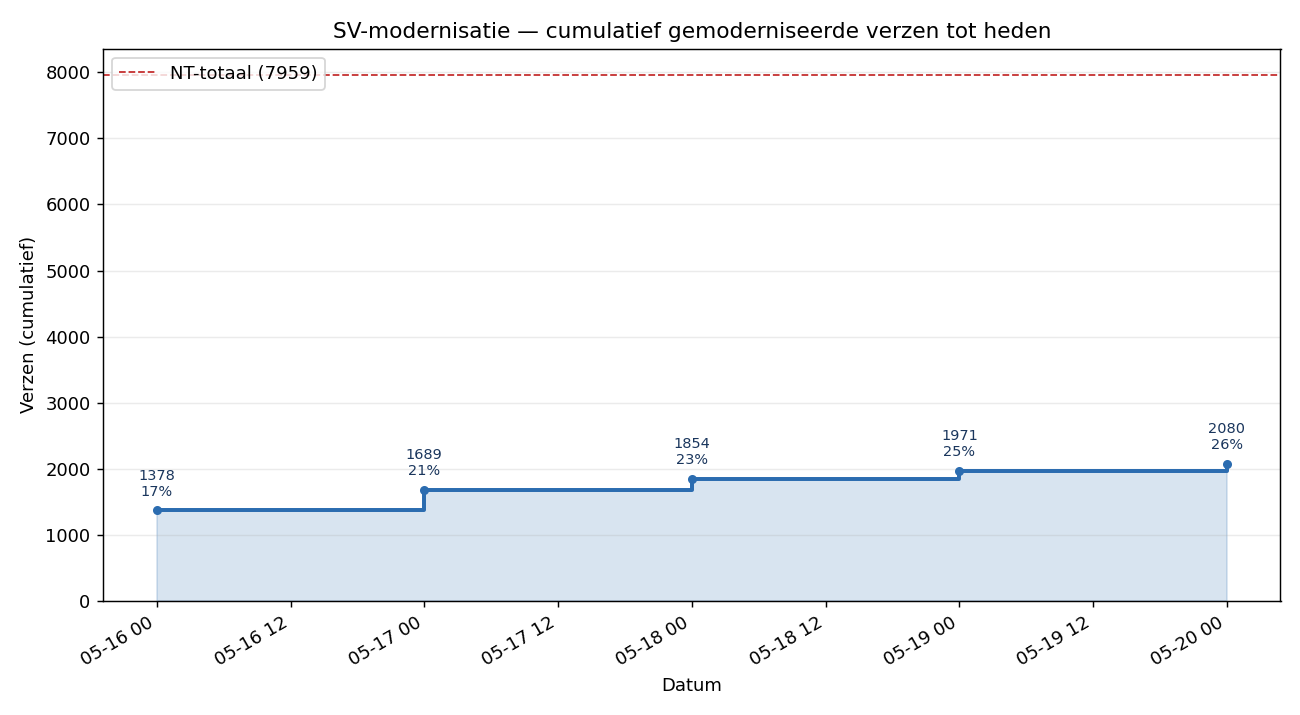
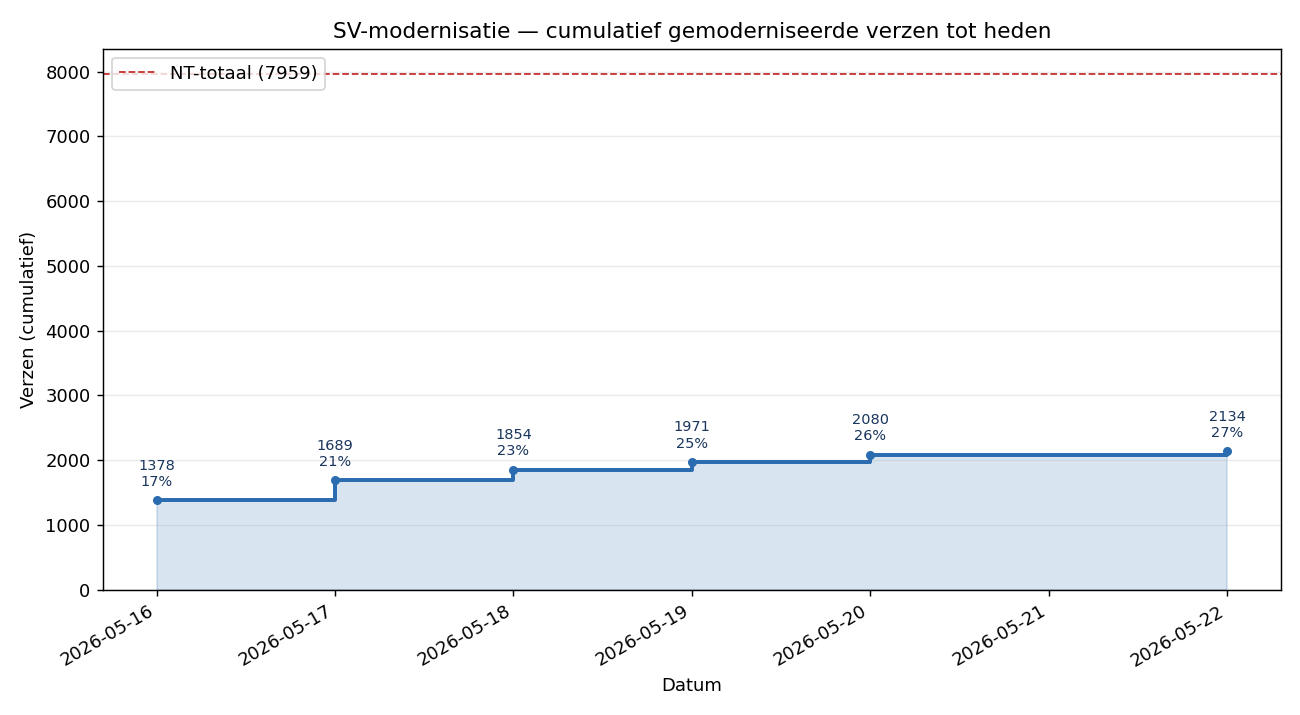
docs: voortgangsoverzicht bijgewerkt t/m ROM 10 (2134 verzen, 26,8%)

diff --git a/docs/projectoverzicht.md b/docs/projectoverzicht.md
@@ -1,6 +1,6 @@
 # Projectoverzicht — SVmodernisatie2026
 
-*Van initiatie tot heden. Bijgewerkt: 20 mei 2026.*
+*Van initiatie tot heden. Bijgewerkt: 22 mei 2026.*
 
 Modernisering van de Statenvertaling 1657 (2e druk) met maximaal behoud
 van de SV-eigenheid, volledig uitgevoerd door taalmodellen volgens de
@@ -12,12 +12,12 @@ methode in [`MODERNISATIE.md`](../MODERNISATIE.md).
 
 | | Verzen |
 |---|---:|
-| **Gemoderniseerd** | **2.080** |
+| **Gemoderniseerd** | **2.134** |
 | **Totaal NT (SV1657-corpus, `input.sv/`)** | **7.959** |
-| **Voortgang** | **26,1 %** |
+| **Voortgang** | **26,8 %** |
 
 ```
-[██████████░░░░░░░░░░░░░░░░░░░░░░░░░░░░░░] 26,1 %
+[███████████░░░░░░░░░░░░░░░░░░░░░░░░░░░░░] 26,8 %
 ```
 
 ### Per boek
@@ -27,8 +27,8 @@ methode in [`MODERNISATIE.md`](../MODERNISATIE.md).
 | Markus (MRK)   | 16 / 16 | 678   | 678   | ✅ compleet |
 | Lukas (LUK)    | 24 / 24 | 1.151 | 1.151 | ✅ compleet |
 | Filemon (PHM)  | 1 / 1   | 25    | 25    | ✅ compleet |
-| Romeinen (ROM) | 8 / 16  | 226   | 434   | 🔧 in uitvoering |
-| **Subtotaal**  |         | **2.080** | **2.288** | |
+| Romeinen (ROM) | 10 / 16 | 280   | 434   | 🔧 in uitvoering |
+| **Subtotaal**  |         | **2.134** | **2.288** | |
 
 Resterende NT-boeken (nog niet gestart): MAT, JHN, ACT, 1CO, 2CO, GAL,
 EPH, PHP, COL, 1TH, 2TH, 1TI, 2TI, TIT, HEB, JAS, 1PE, 2PE, 1JN, 2JN,
@@ -45,8 +45,9 @@ EPH, PHP, COL, 1TH, 2TH, 1TI, 2TI, TIT, HEB, JAS, 1PE, 2PE, 1JN, 2JN,
 | **18 mei 2026** | Lukas afgerond (24 hoofdstukken). Filemon gestart. Meta-review-aggregator (cross-chapter HSV-diff bucketing) toegevoegd. |
 | **19 mei 2026** | Romeinen gestart (`ROM 1:1-3`). |
 | **20 mei 2026** | Romeinen t/m hoofdstuk 8. Eerbiedskapitaal- en genitief-archaïsme-checks HARD in validator. SV27-vergelijking toegevoegd. |
+| **22 mei 2026** | Romeinen hoofdstuk 9 en 10 afgerond (t/m ROM 10). Adversariële genitief- en participium-opschoning in kanttekeningen. |
 
-Looptijd tot heden: **5 dagen** (16–20 mei 2026).
+Looptijd tot heden: **7 dagen** (16–22 mei 2026).
 
 ---
 
@@ -54,11 +55,11 @@ Looptijd tot heden: **5 dagen** (16–20 mei 2026).
 
 | Metriek | Waarde |
 |---|---:|
-| Commits totaal | 752 |
-| Gemergede pull requests | 326 |
-| Commits per dag | 139 / 215 / 175 / 104 / 119 |
+| Commits totaal | 797 |
+| Gemergede pull requests | 403 |
+| Commits per dag | 139 / 215 / 175 / 104 / 120 / 44 |
 | Boeken compleet | 3 (MRK, LUK, PHM) |
-| Verzen per dag (gem.) | ~416 |
+| Verzen per dag (gem.) | ~356 |
 
 ---
 
